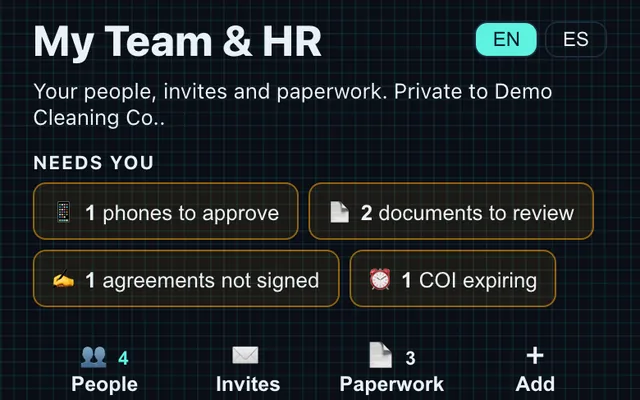
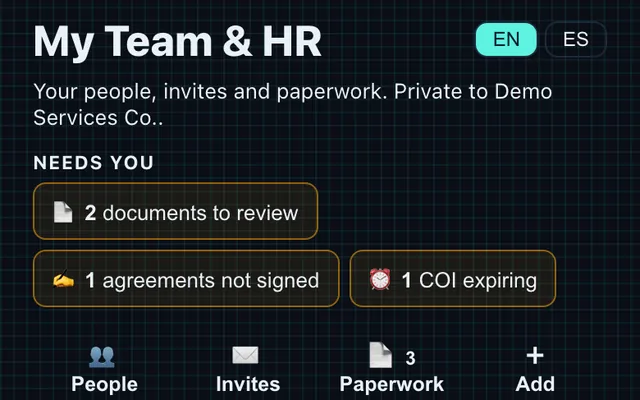
Split out the demo form; Varda's fixes (neutral demo company, clean hero phone, Security heading, tighter gaps)
- Demo form moves to its own PR (waits for Turnstile/Resend keys): no /demo route and no
  api/demo-request.js here. "Request a demo" buttons stay a mailto to support@rhinoscore.com
  (one constant, DEMO_HREF in src/routes.js).
- Subcontractors card re-shot with an industry-neutral demo company ("Demo Services Co.").
- Hero phone now starts at "Good evening, Alex / Let's get to work" (no cut-off banner).
- /security: the "Encryption" heading no longer repeats its label.
- Home: gaps after "Your problems know it" and before "Who uses it" cut by about a third.

Changed region(s): [[0.0625, 0.45, 0.9375, 0.6], [0.0312, 0.27, 0.25, 0.33], [0.125, 0.87, 0.2188, 0.93]]

diff --git a/src/home.jsx b/src/home.jsx
@@ -1,11 +1,9 @@
-// Home page (Varda's approved copy v1, 2026-10-29) and the /demo request form.
+// Home page (Varda's approved copy v1, 2026-10-29).
 // Product pictures are real RhinoScore screens rendered with made-up demo data only
 // (no real companies, customers, crews or prices).
 
-import { useState } from "react";
-import { SUPPORT_EMAIL } from "./sms.jsx";
 
-const DEMO = "/demo";
+import { DEMO_HREF as DEMO } from "./routes.js";
 
 const problems = [
   "Updates come by text, phone call and paper.",
@@ -55,8 +53,8 @@ function Devices() {
         <div className="phone-screen">
           <img
             src="/shots/hero-checkin.webp"
-            width="390"
-            height="844"
+            width="780"
+            height="1288"
             alt="RhinoScore crew phone screen: a site and service are selected and a large Check in button confirms the visit with a quick selfie."
           />
         </div>
@@ -172,123 +170,6 @@ export function HomePage() {
           </div>
         </div>
       </section>
-    </main>
-  );
-}
-
-/* ---------- /demo: request form ---------- */
-
-const INDUSTRIES = ["Cleaning / janitorial", "Facilities / maintenance", "Property management", "Schools / education", "Healthcare", "Other"];
-const SITE_COUNTS = [["1-5", "1 to 5"], ["6-25", "6 to 25"], ["26-100", "26 to 100"], ["100+", "More than 100"]];
-
-export function DemoPage() {
-  const [status, setStatus] = useState("idle"); // idle | sending | sent | error
-  const [error, setError] = useState("");
-
-  async function submit(e) {
-    e.preventDefault();
-    const form = e.currentTarget;
-    if (!form.reportValidity()) return;
-    const data = Object.fromEntries(new FormData(form).entries());
-    setStatus("sending");
-    setError("");
-    try {
-      const r = await fetch("/api/demo-request", {
-        method: "POST",
-        headers: { "Content-Type": "application/json" },
-        body: JSON.stringify(data),
-      });
-      const out = await r.json().catch(() => ({}));
-      if (r.ok && out.ok) {
-        setStatus("sent");
-        form.reset();
-        return;
-      }
-      setError(out.error === "invalid" ? "Please check your name, work email, phone and company, then try again." : "");
-    } catch {
-      setError("");
-    }
-    setStatus("error");
-  }
-
-  return (
-    <main>
-      <section className="policy-hero">
-        <div className="wrap">
-          <p className="updated">Request a demo</p>
-          <h1>See RhinoScore with your own sites.</h1>
-          <p>Tell us a little about your company and we'll set up a short walkthrough tailored to how you run. No pressure, no jargon.</p>
-        </div>
-      </section>
-      <div className="wrap">
-        <div className="demo-wrap">
-          {status === "sent" ? (
-            <div className="policy-section demo-done" role="status">
-              <h2>Thanks, we got it.</h2>
-              <p>We'll reach out soon to find a time that works. Questions before then? Email <a href={`mailto:${SUPPORT_EMAIL}`}>{SUPPORT_EMAIL}</a>.</p>
-            </div>
-          ) : (
-            <form className="demo-form policy-section" onSubmit={submit} noValidate={false}>
-              <div className="field-row">
-                <label>
-                  <span>Your name *</span>
-                  <input name="name" type="text" autoComplete="name" required maxLength={100} />
-                </label>
-                <label>
-                  <span>Company *</span>
-                  <input name="company" type="text" autoComplete="organization" required maxLength={150} />
-                </label>
-              </div>
-              <div className="field-row">
-                <label>
-                  <span>Work email *</span>
-                  <input name="email" type="email" autoComplete="email" required maxLength={200} />
-                </label>
-                <label>
-                  <span>Phone (optional)</span>
-                  <input name="phone" type="tel" autoComplete="tel" maxLength={40} pattern="[0-9+().\-\s]{7,40}" />
-                </label>
-              </div>
-              <div className="field-row">
-                <label>
-                  <span>Industry</span>
-                  <select name="industry" defaultValue="">
-                    <option value="">Choose one</option>
-                    {INDUSTRIES.map((i) => (<option key={i} value={i}>{i}</option>))}
-                  </select>
-                </label>
-                <label>
-                  <span>Number of sites</span>
-                  <select name="sites" defaultValue="">
-                    <option value="">Choose one</option>
-                    {SITE_COUNTS.map(([v, l]) => (<option key={v} value={v}>{l}</option>))}
-                  </select>
-                </label>
-              </div>
-              <label>
-                <span>Anything we should know? (optional)</span>
-                <textarea name="message" rows={4} maxLength={2000} />
-              </label>
-              {/* Honeypot for bots: hidden from people and screen readers. */}
-              <label className="hp" aria-hidden="true">
-                <span>Website</span>
-                <input name="website" type="text" tabIndex={-1} autoComplete="off" />
-              </label>
-              {status === "error" && (
-                <p className="form-error" role="alert">
-                  {error || "Sorry, that didn't go through."} You can also email us at <a href={`mailto:${SUPPORT_EMAIL}?subject=Demo%20request`}>{SUPPORT_EMAIL}</a>.
-                </p>
-              )}
-              <button className="button primary" type="submit" disabled={status === "sending"}>
-                {status === "sending" ? "Sending…" : "Request my demo"}
-              </button>
-              <p className="smallprint">
-                We use these details only to set up your demo and follow up about RhinoScore. See our <a href="/privacy">Privacy Policy</a>.
-              </p>
-            </form>
-          )}
-        </div>
-      </div>
     </main>
   );
 }

diff --git a/src/styles.css b/src/styles.css
@@ -445,9 +445,12 @@ h1 em, h2 em { font-style: normal; color: var(--cyan); }
   border-radius: 26px; padding: 7px; background: #0d1119; border: 1px solid var(--line-2);
   box-shadow: 0 30px 70px rgba(0, 0, 0, 0.7), 0 0 0 1px rgba(94, 242, 224, 0.18);
 }
-.phone-screen { border-radius: 20px; overflow: hidden; aspect-ratio: 390 / 700; }
-.phone-screen img { width: 100%; height: 100%; object-fit: cover; object-position: bottom; }
+.phone-screen { border-radius: 20px; overflow: hidden; aspect-ratio: 780 / 1288; }
+.phone-screen img { width: 100%; height: 100%; object-fit: cover; object-position: top; }
 
+/* tighter gaps between home sections (about a third less than the default section padding) */
+.home .home-problem, .home .home-sell { padding-bottom: clamp(44px, 6vw, 86px); }
+.home #features, .home .audience { padding-top: clamp(44px, 6vw, 86px); }
 .home-problem h2 { max-width: 24ch; }
 .home-problem h2 span { color: var(--ink-mute); }
 .problem-list { list-style: none; margin: 34px 0 0; padding: 0; display: grid; gap: 16px; max-width: 640px; }
@@ -487,27 +490,6 @@ h1 em, h2 em { font-style: normal; color: var(--cyan); }
   .home-hero .hero-actions .button { width: 100%; }
   .phone { border-radius: 18px; padding: 5px; }
   .phone-screen { border-radius: 14px; }
-}
-
-/* ---------- Demo form ---------- */
-.demo-wrap { max-width: 820px; padding-block: clamp(40px, 6vw, 64px); }
-.demo-form { display: grid; gap: 18px; }
-.field-row { display: grid; grid-template-columns: 1fr 1fr; gap: 18px; }
-.demo-form label { display: grid; gap: 7px; }
-.demo-form label > span { font-size: 0.8rem; font-weight: 600; letter-spacing: 0.06em; text-transform: uppercase; color: var(--ink-mute); }
-.demo-form input, .demo-form select, .demo-form textarea {
-  width: 100%; font: inherit; font-size: 1rem; color: var(--ink);
-  background: rgba(4, 6, 12, 0.7); border: 1px solid var(--line-2); border-radius: 10px; padding: 13px 14px;
-}
-.demo-form textarea { resize: vertical; min-height: 110px; }
-.demo-form input:focus, .demo-form select:focus, .demo-form textarea:focus { outline: 2px solid var(--cyan); outline-offset: 1px; border-color: transparent; }
-.demo-form .button { justify-self: start; }
-.demo-form .hp { position: absolute; left: -10000px; width: 1px; height: 1px; overflow: hidden; }
-.form-error { color: var(--hot); }
-.form-error a, .demo-done a, .demo-form .smallprint a { color: var(--cyan); border-bottom: 1px solid rgba(94, 242, 224, 0.3); }
-@media (max-width: 640px) {
-  .field-row { grid-template-columns: 1fr; }
-  .demo-form .button { justify-self: stretch; }
 }
 
 /* ---------- Terms jump list ---------- */

diff --git a/src/App.jsx b/src/App.jsx
@@ -4,10 +4,8 @@
 
 import { useEffect, useState } from "react";
 import { OWNER, SUPPORT_EMAIL, PrivacyPage, SmsOptInPage, SmsTermsPage, TermsPage } from "./sms.jsx";
-import { DemoPage, HomePage } from "./home.jsx";
-import { APP_URL, NOT_FOUND, routeFor } from "./routes.js";
-
-const DEMO = "/demo";
+import { HomePage } from "./home.jsx";
+import { APP_URL, DEMO_HREF as DEMO, NOT_FOUND, routeFor } from "./routes.js";
 
 const pillars = [
   ["Operational Visibility", "Know what's happening, know what isn't, and know what changed — across every location, in one connected view."],
@@ -435,7 +433,7 @@ function SecurityPage() {
 
           <section className="policy-section">
             <p className="eyebrow">03 · Encryption</p>
-            <h2>Encryption</h2>
+            <h2>Encrypted in transit and at rest</h2>
             <p>Data is encrypted in transit (TLS) between your browser and our services, and at rest on our managed database and storage platform. Credentials and API keys are held server-side only — never exposed to the browser.</p>
           </section>
 
@@ -512,7 +510,6 @@ const PAGES = {
   "/how-it-works": HowPage,
   "/who-its-for": WhoPage,
   "/security": SecurityPage,
-  "/demo": DemoPage,
   "/privacy": PrivacyPage,
   "/sms-terms": SmsTermsPage,
   "/sms-opt-in": SmsOptInPage,

diff --git a/src/routes.js b/src/routes.js
@@ -4,6 +4,8 @@
 export const SITE = "https://rhinoscore.com";
 export const APP_URL = "https://app.rhinoscore.com";
 export const OG_IMAGE = `${SITE}/og-image.jpg`;
+// Where every "Request a demo" button goes (email for now; the /demo form ships in its own PR).
+export const DEMO_HREF = "mailto:support@rhinoscore.com?subject=RhinoScore%20demo%20request";
 
 export const ROUTES = [
   {
@@ -30,11 +32,6 @@ export const ROUTES = [
     path: "/security",
     title: "Security, trust & architecture | RhinoScore",
     description: "How RhinoScore keeps your data isolated, encrypted, access-controlled and exportable. Infrastructure, AI use and engineering practices explained.",
-  },
-  {
-    path: "/demo",
-    title: "Request a demo | RhinoScore",
-    description: "Ask for a short RhinoScore walkthrough tailored to how your service company runs. No pressure, no jargon.",
   },
   {
     path: "/account",

diff --git a/README.md b/README.md
@@ -7,14 +7,10 @@ A quick React + Vite website for RhinoScore at `rhinoscore.com`.
 - `/` - product homepage
 - `/privacy` - privacy policy starter
 - `/terms` - terms of service starter
-- `/demo` - request-a-demo form (posts to `api/demo-request.js`)
 - `/platform`, `/how-it-works`, `/who-its-for`, `/security`, `/account`, `/sms-terms`, `/sms-opt-in`
 
 Page titles/descriptions live in `src/routes.js`; `npm run build` writes one HTML file per page,
 `404.html` and `sitemap.xml` (see `scripts/prerender.mjs`).
-
-Demo form email: set `RESEND_API_KEY` in the Vercel project (optional `DEMO_TO`, `DEMO_FROM`).
-Without it the form shows the support email instead.
 
 ## Before Publishing
 
